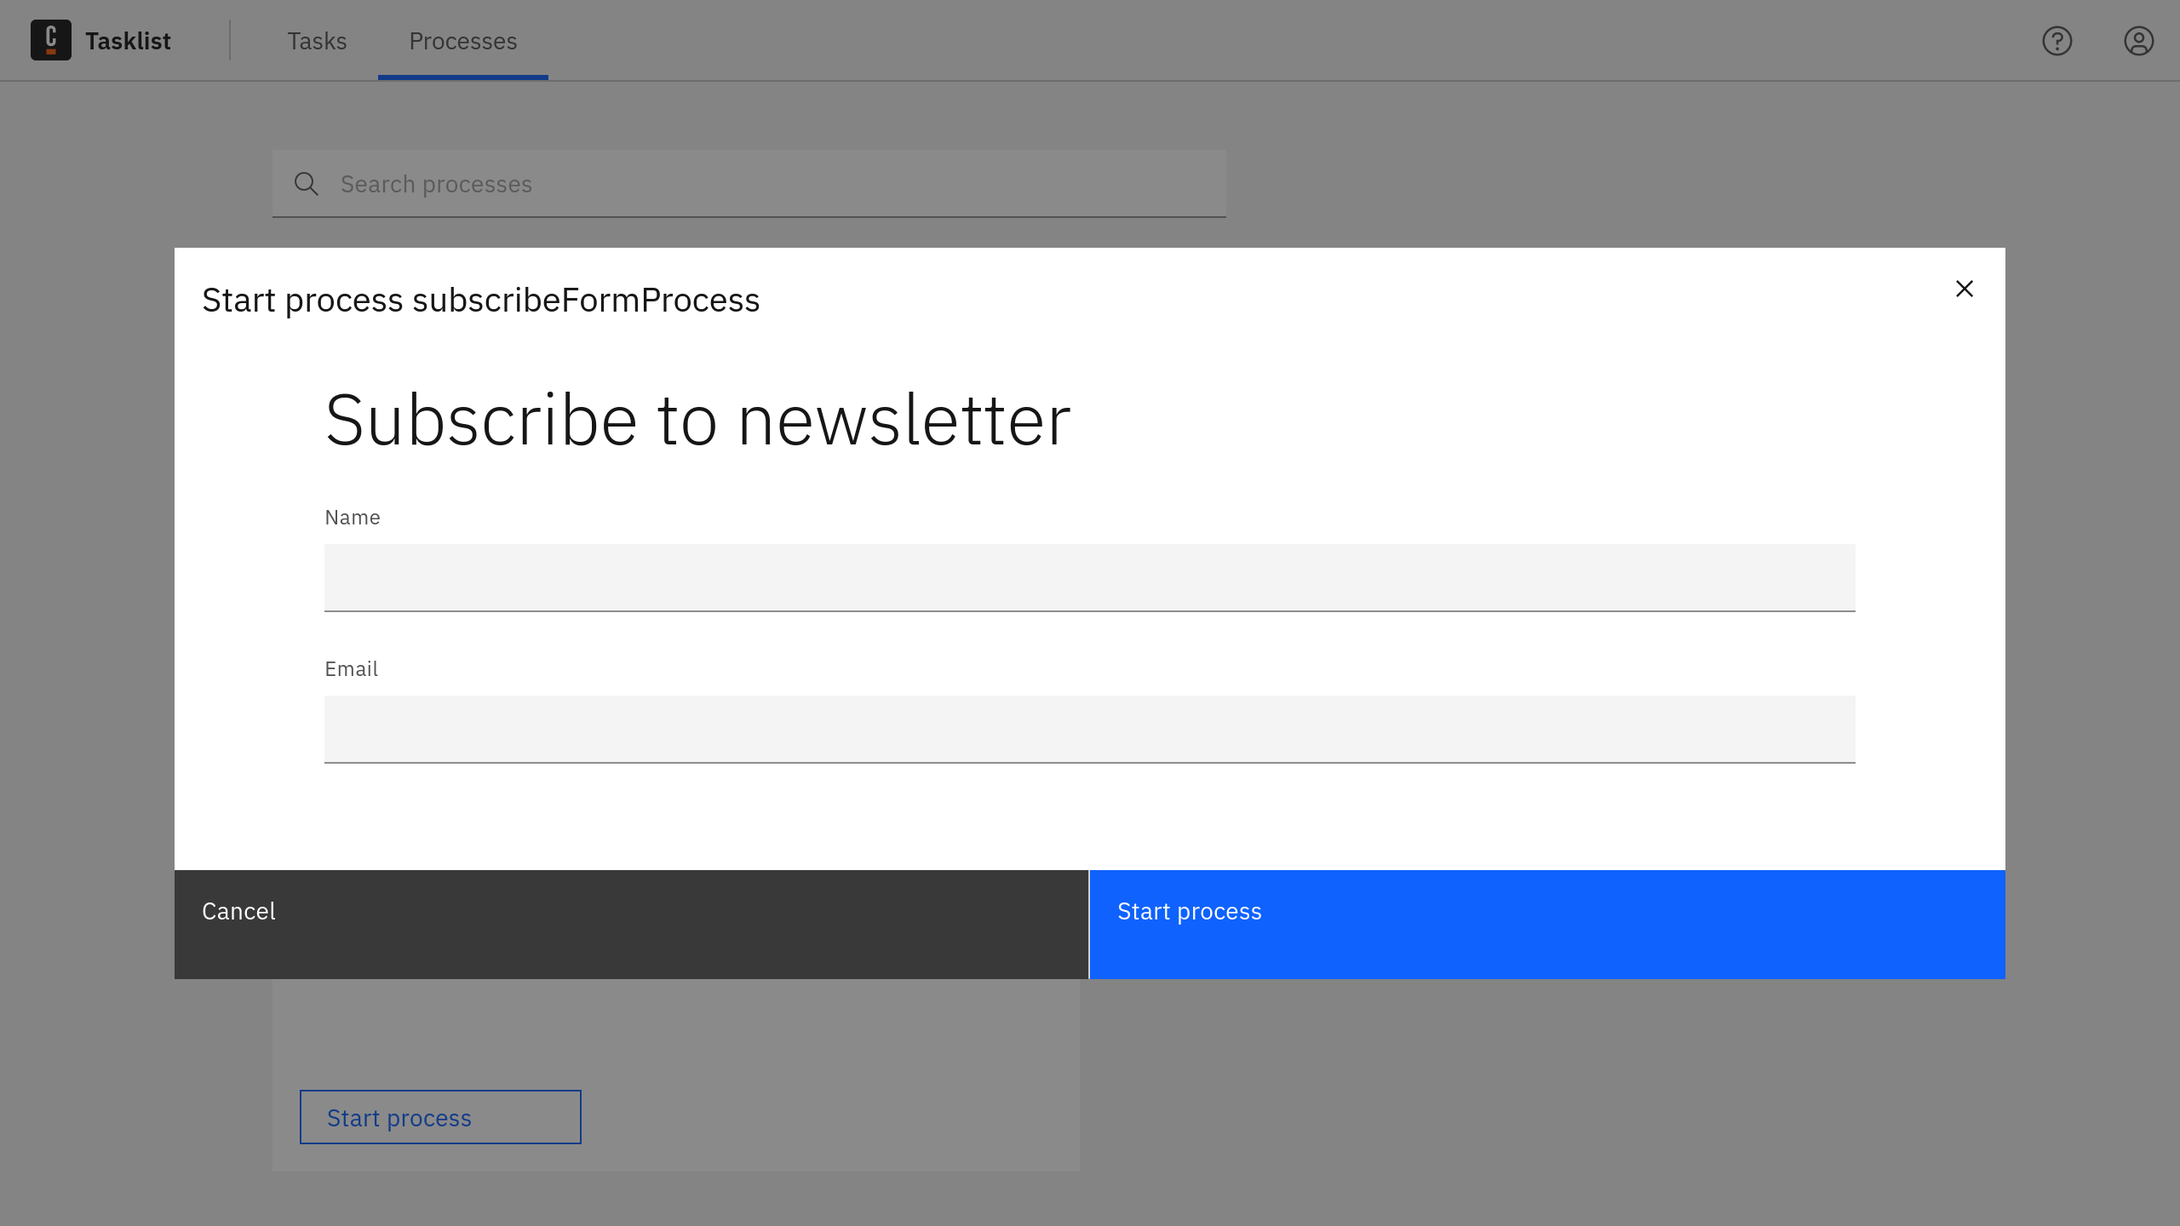
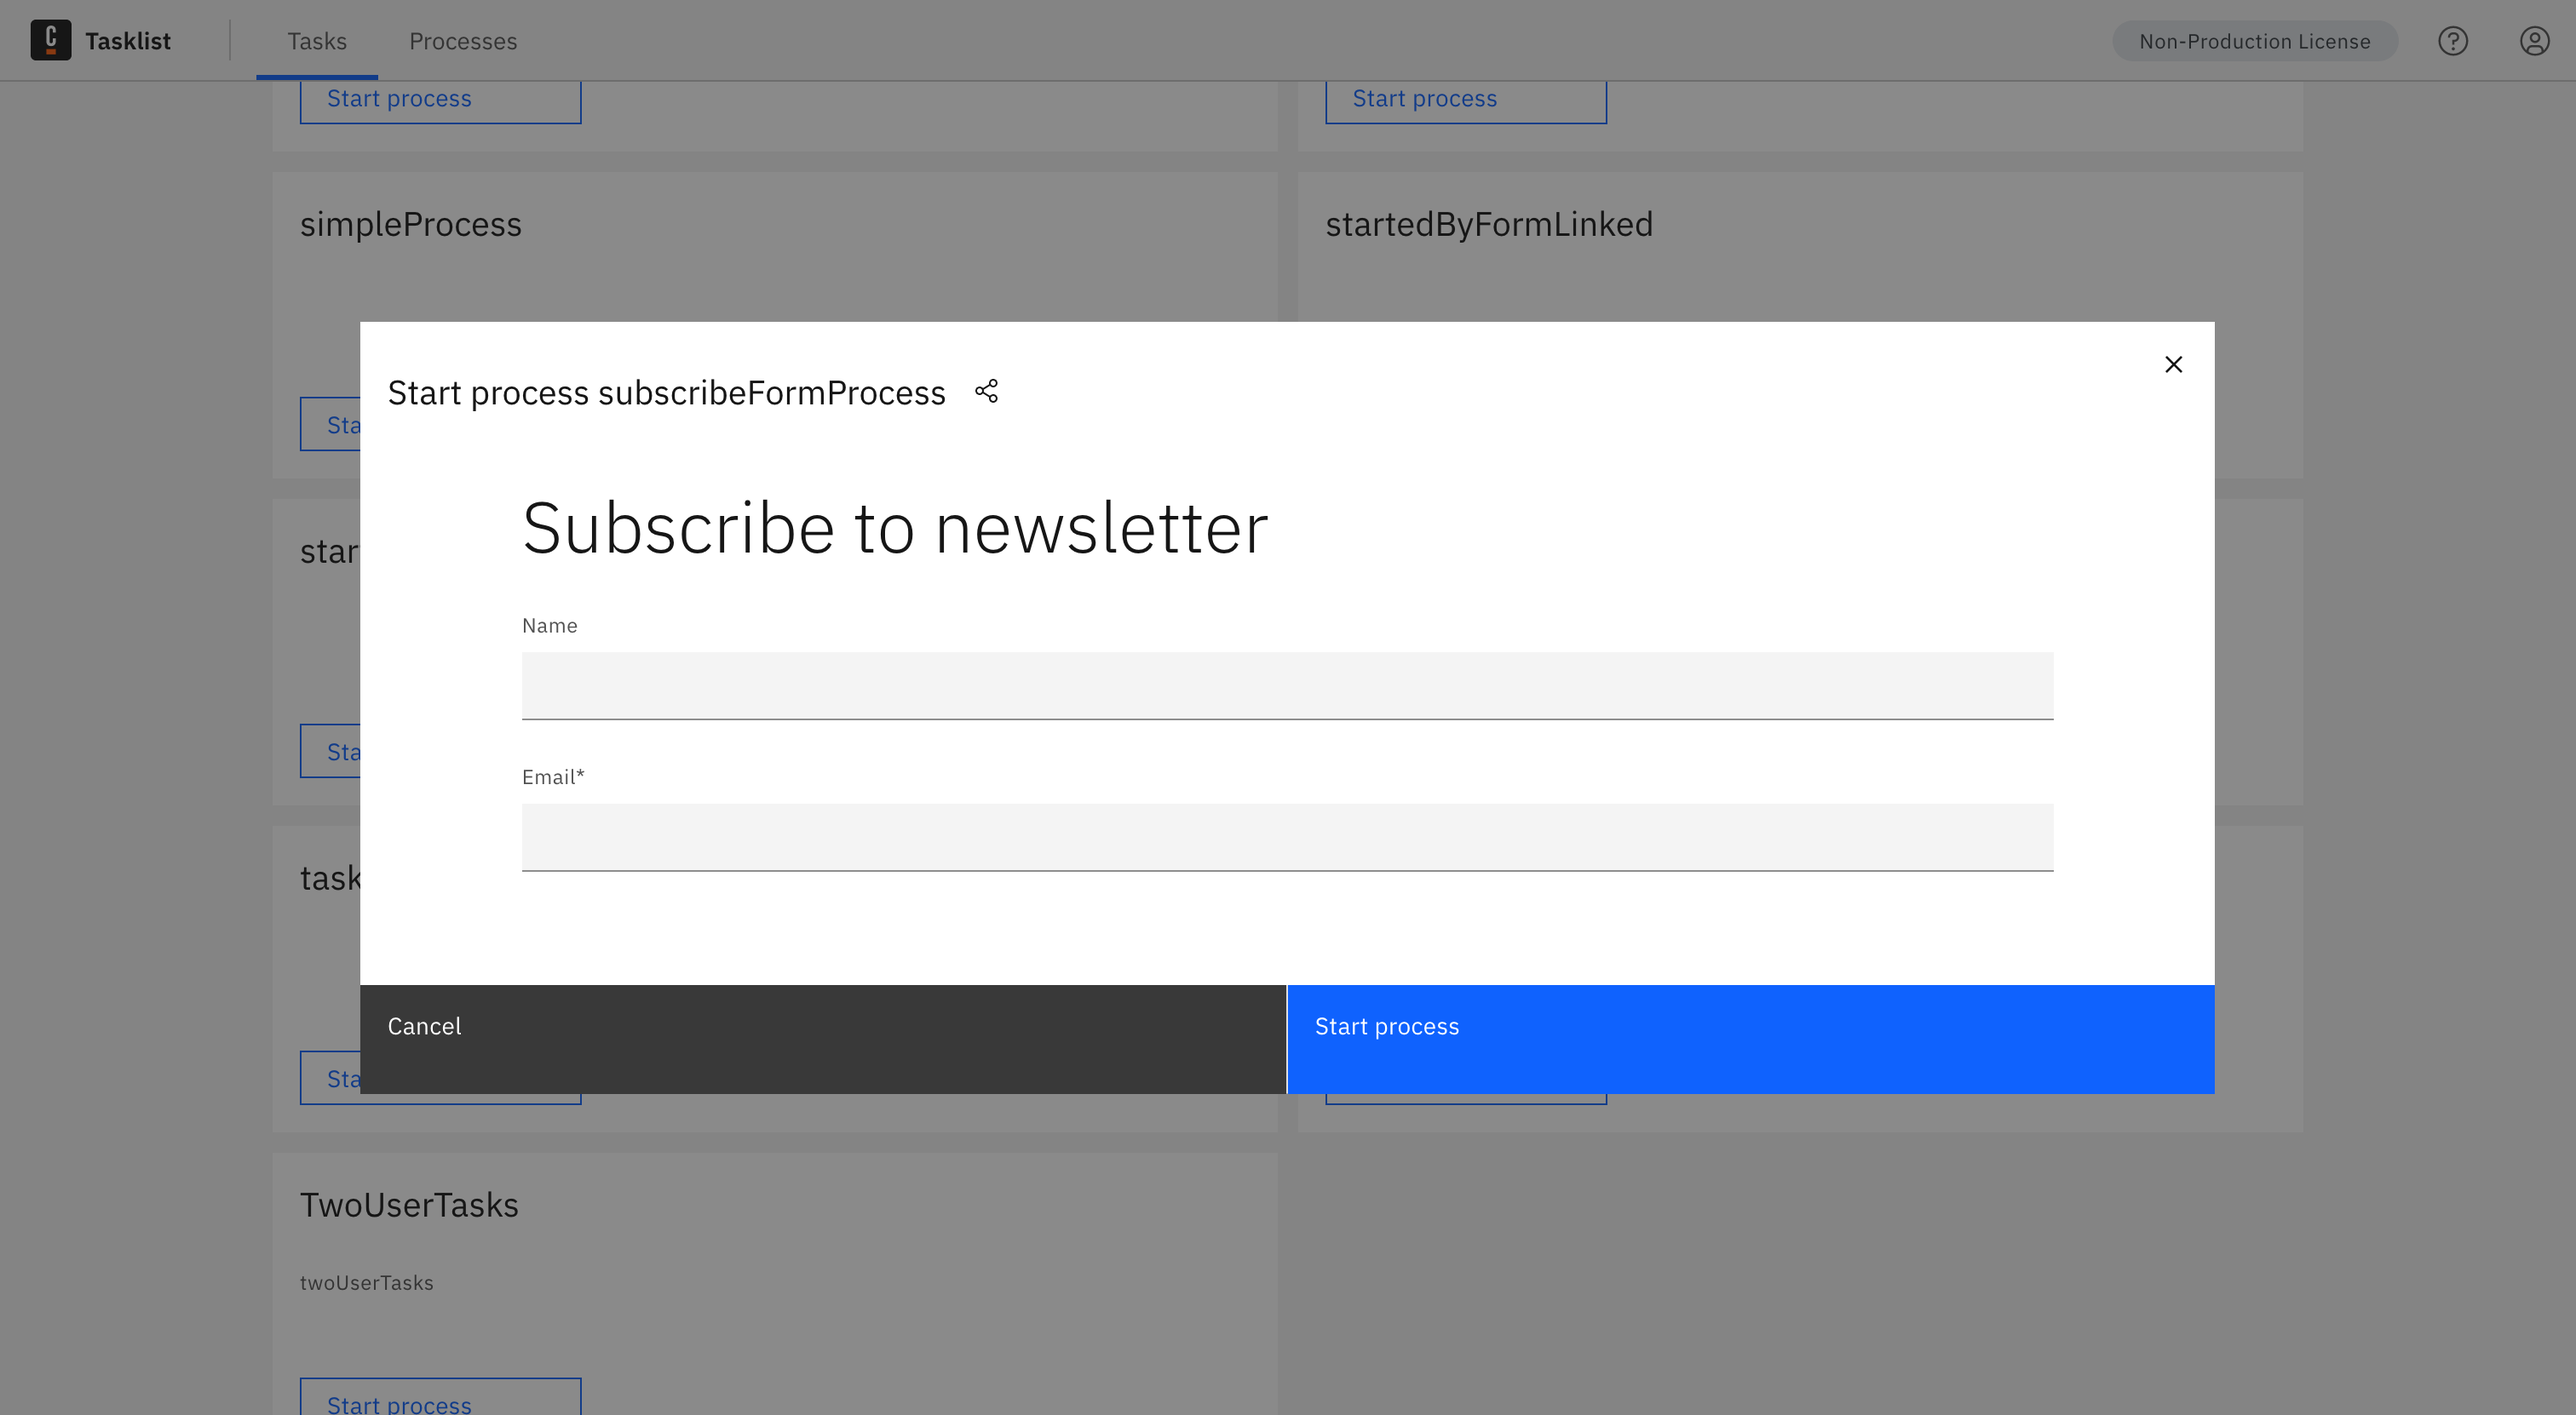
feat: Document linkable start forms with auth

diff --git a/docs/components/tasklist/userguide/starting-processes.md b/docs/components/tasklist/userguide/starting-processes.md
@@ -22,6 +22,12 @@ If the start event of this process contains a [linked or embedded Camunda Form](
 
 Tasklist will then wait for the process to be executed. If the process generates a task, you will be redirected to the generated task.
 
+:::info
+
+To share a process with users inside your organization, but not with external users, you can click on the share button ![share button](img/tasklist-processes-share-button.png) to copy a link to the process. This link will only be accessible to users that already have access to Tasklist.
+
+:::
+
 ### Not seeing a process
 
 There could be multiple reasons why you are not seeing any process in the **Processes** tab:
